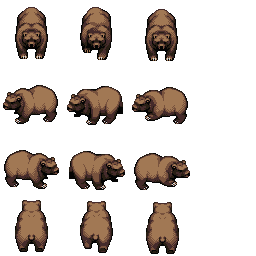
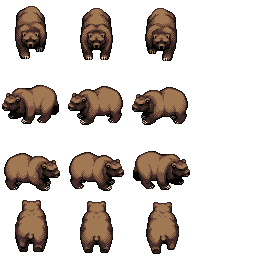
debug bears

diff --git a/LWJGL/src/rpg/game/entities/Bear.java b/LWJGL/src/rpg/game/entities/Bear.java
@@ -8,6 +8,7 @@ public class Bear extends Entity{
 	private int movingDir = 0;
 	private int movingDirAnimation = 0;
 	private int yChange = 0;
+	private boolean stopAnimation = false;
 	
 	private int change = 1;
 	private int delta = (int) (Math.random() * 180);
@@ -22,9 +23,10 @@ public class Bear extends Entity{
 	public void update(){
 		delta++;
 		
-		int animationSpeed = 120;
+		int animationSpeed = 60;
 		int update = delta%animationSpeed;
 		
+		if(stopAnimation == false){
 		if(update == 0){
 			change = 1;
 		}else
@@ -33,13 +35,14 @@ public class Bear extends Entity{
 		}else
 		if(update == 2*animationSpeed/5 || update == 3*animationSpeed/5){
 			change = 3;
-		}
+		}}
 		
-		if(delta % 40 == 0){
+		if(delta % 250 == 0){
 			movingDir = (int) (Math.random() * 8);
 		}
 		
-		if(delta % 250 < 140 && delta% 2 == 0){
+		if(delta % 250 < 100){
+			stopAnimation = false;
 			switch(movingDir){
 				case 0:
 					move(0,1);
@@ -77,30 +80,34 @@ public class Bear extends Entity{
 					// 6 od 2
 					movingDirAnimation = 6;
 					break;
-			}}
-		
+			}}else{
+				stopAnimation = true;
+				change = 2;
+			}
 		
 		if(movingDirAnimation == 2 || movingDirAnimation == 8){
-			if(	!hasCollision(x+15, y) 
-					&& !hasCollision(x+15, y+45)
-					&& !hasCollision(x+45, y)
-					&& !hasCollision(x+45, y+45)){
+			if(	!hasCollisionAt(x+15, y) 
+					&& !hasCollisionAt(x+15, y+45)
+					&& !hasCollisionAt(x+45, y)
+					&& !hasCollisionAt(x+45, y+45)){
 						yChange = movingDirAnimation/2 - 1;
 						colOffsetX = 20;
 						width = 25;
 						height = 45;
-					}
+						setImageBounds(20, 0, width, height);
+			}
 		}
 		
 		if(movingDirAnimation == 4 || movingDirAnimation == 6){
-			if(	!hasCollision(x+2, y) 
-					&& !hasCollision(x+2, y+32)
-					&& !hasCollision(x+34, y)
-					&& !hasCollision(x+34, y+32)){
+			if(	!hasCollisionAt(x+2, y) 
+					&& !hasCollisionAt(x+2, y+32)
+					&& !hasCollisionAt(x+57, y)
+					&& !hasCollisionAt(x+57, y+32)){
 					yChange = movingDirAnimation/2 - 1;
 					colOffsetX = 0;
 					width = 55;
 					height = 32;
+					setImageBounds(0, 0, width, height);
 				}
 		}
 		
@@ -122,7 +129,17 @@ public class Bear extends Entity{
 		GL11.glTexCoord2f(xChange * 0.25f,yChange * 0.25f);
 		GL11.glVertex2f(x, y+64);
 	    GL11.glEnd();
-		
+	    
+	    // DEBUG IMAGES
+	    GL11.glDisable(GL11.GL_TEXTURE_2D);
+	    GL11.glColor3f(1, 1, 1);
+	    GL11.glBegin(GL11.GL_QUADS);
+		GL11.glVertex2f(x+imageOffsetX, y+imageOffsetY);
+		GL11.glVertex2f(x+imageOffsetX+imageWidth, y+imageOffsetY);
+		GL11.glVertex2f(x+imageOffsetX+imageWidth, y+imageOffsetY+imageHeight);
+		GL11.glVertex2f(x+imageOffsetX, y+imageOffsetY+imageHeight);
+		GL11.glEnd();
+	    GL11.glEnable(GL11.GL_TEXTURE_2D);
 	}
 	
 }

diff --git a/LWJGL/src/rpg/game/entities/Entity.java b/LWJGL/src/rpg/game/entities/Entity.java
@@ -7,10 +7,18 @@ import rpg.game.objects.GameObject;
 public class Entity extends GameObject{
 
 	protected int lvl;
+	protected int maxHealth;
+	protected int maxMana;
+	
 	protected int health;
 	protected int mana;
 	protected int exp;
 	protected int speed = 1;
+
+	protected int imageOffsetX;
+	protected int imageOffsetY;
+	protected int imageWidth;
+	protected int imageHeight;
 	
 	private boolean aggressive;
 	
@@ -74,6 +82,44 @@ public class Entity extends GameObject{
 		return false;
 	}
 	
+	public boolean hasCollisionAt(int x, int y){
+		if(	x > Game.PLAYER.getX()
+			&& x < Game.PLAYER.getX() + Game.PLAYER.getWidth()
+			&& y > Game.PLAYER.getY()
+			&& y < Game.PLAYER.getY() + Game.PLAYER.getHeight()){
+				
+				return true;
+		}
+		
+		for (GameObject object : Map.objectList) {
+			
+			if(	object.isSolid()
+				&& !object.equals(this)
+				&& x > object.getX() + object.getXColOffset()
+				&& x < object.getX() + object.getXColOffset() + object.getWidth()
+				&& y > object.getY() + object.getYColOffset()
+				&& y < object.getY() + object.getYColOffset() + object.getHeight()){
+				return true;
+			}
+			
+		}
+		
+		for (GameObject object : Map.entityList) {
+			
+			if(	object.isSolid()
+				&& !object.equals(this)
+				&& x > object.getX() + object.getXColOffset()
+				&& x < object.getX() + object.getXColOffset() + object.getWidth()
+				&& y > object.getY() + object.getYColOffset()
+				&& y < object.getY() + object.getYColOffset() + object.getHeight()){
+				return true;
+			}
+			
+		}
+		
+		return false;
+	}
+	
 	public void move(int x, int y){
 		
 		if(!hasCollision(this.x+x*speed, this.y+y*speed)){
@@ -83,5 +129,44 @@ public class Entity extends GameObject{
 		
 	}
 	
+	// FIXME
+	protected void setImageBounds(int xOffset, int yOffset, int width, int height){
+		imageOffsetX = xOffset;
+		imageOffsetY = yOffset;
+		imageWidth = width;
+		imageHeight = height;
+	}
+	
+	// FIXME ?
+	public boolean isEntityAt(int x, int y){
+		
+		if( x > this.x + imageOffsetX
+			&& x < this.x + imageOffsetX + imageWidth
+			&& y > this.y + imageOffsetY
+			&& y < this.y + imageOffsetY + imageHeight){
+			return true;
+		}
+		return false;
+	}
+	
+	public int getHealth(){
+		return health;
+	}
+	
+	public int getMaxHealth(){
+		return maxHealth;
+	}
+	
+	public int getMana(){
+		return mana;
+	}
+	
+	public int getMaxMana(){
+		return maxMana;
+	}
+	
+	public int getLvl(){
+		return lvl;
+	}
 
 }

diff --git a/LWJGL/src/rpg/game/player/Interface.java b/LWJGL/src/rpg/game/player/Interface.java
@@ -3,6 +3,7 @@ package rpg.game.player;
 import java.io.IOException;
 
 import org.lwjgl.input.Keyboard;
+import org.lwjgl.input.Mouse;
 import org.lwjgl.opengl.GL11;
 import org.newdawn.slick.opengl.Texture;
 import org.newdawn.slick.opengl.TextureLoader;
@@ -10,6 +11,9 @@ import org.newdawn.slick.util.ResourceLoader;
 
 import rpg.game.Font;
 import rpg.game.Game;
+import rpg.game.Map;
+import rpg.game.entities.Entity;
+import rpg.game.objects.GameObject;
 
 public class Interface {
 
@@ -54,7 +58,23 @@ public class Interface {
 				renderPaused = !renderPaused;
 				wait = 30;
 			}
+			if(Mouse.isButtonDown(0)){
+			
+				for (GameObject object: Map.entityList) {
+					
+					Entity entity = (Entity) object;
+					
+					if(entity.isEntityAt(Mouse.getX(), Mouse.getY())){
+						System.out.println("LVL: " + entity.getLvl() + " HEALTH: " + entity.getHealth() + " MANA: " + entity.getMana());
+					}
+					
+				}
+				 wait = 30;
+				
+			}
 		}
+		
+		
 		
 		
 		if(wait > 0){

diff --git a/LWJGL/src/rpg/game/Game.java b/LWJGL/src/rpg/game/Game.java
@@ -16,8 +16,8 @@ public class Game {
 	
 	
 	// on windows 640 x 480 on linux 800 x 600
-	public static final int SCREEN_WIDTH = 640;
-	public static final int SCREEN_HEIGHT = 480;
+	public static final int SCREEN_WIDTH = 800;
+	public static final int SCREEN_HEIGHT = 600;
 	
 	public static int WORLD_WIDTH = 0;
 	public static int WORLD_HEIGHT = 0;
